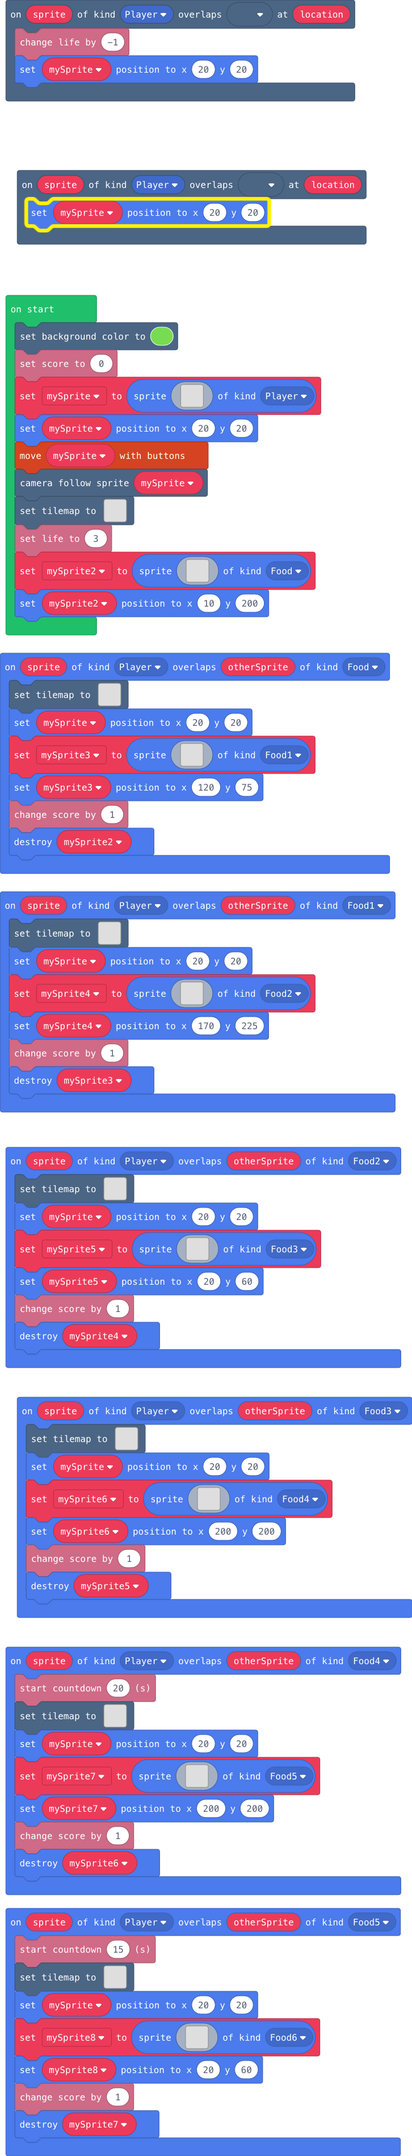
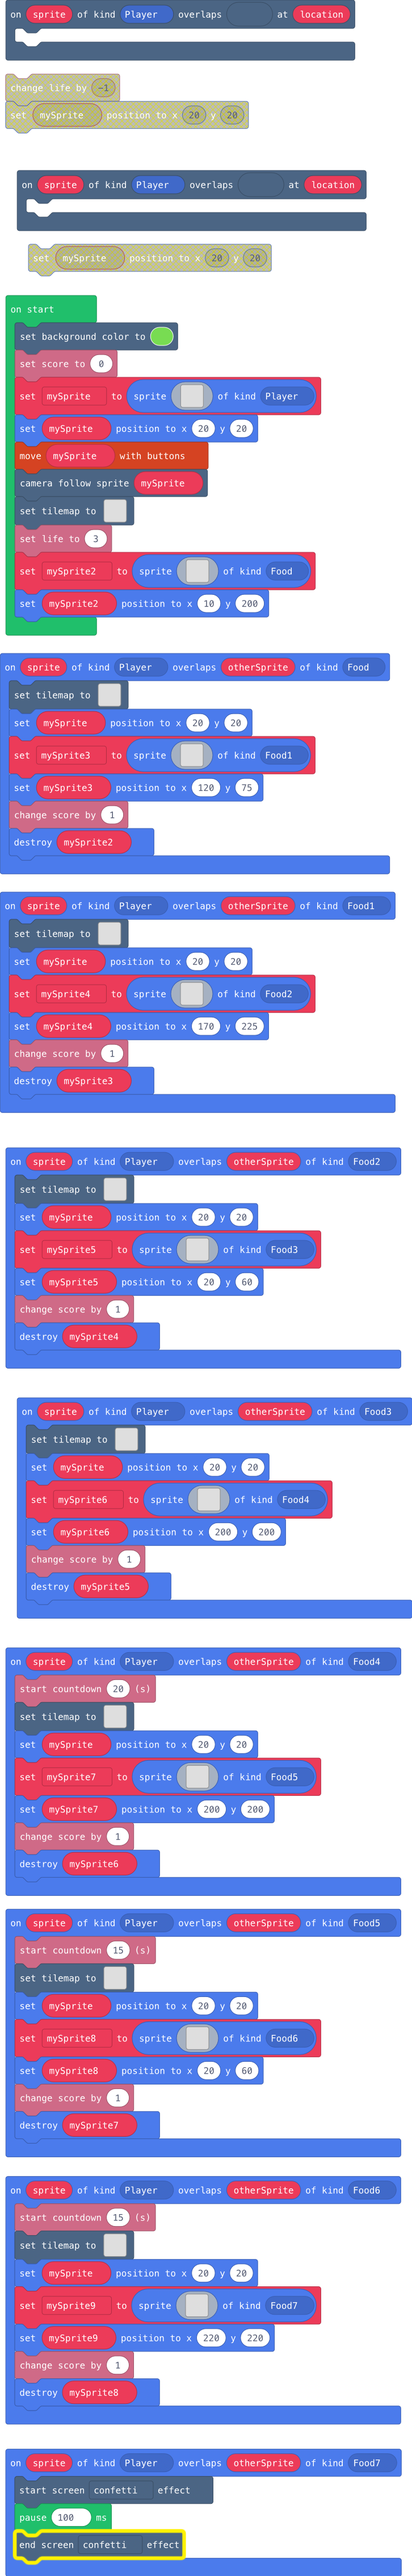
Added another level

diff --git a/main.ts b/main.ts
@@ -5,6 +5,7 @@ namespace SpriteKind {
     export const Food4 = SpriteKind.create()
     export const Food5 = SpriteKind.create()
     export const Food6 = SpriteKind.create()
+    export const Food7 = SpriteKind.create()
 }
 namespace myTiles {
     //% blockIdentity=images._tile
@@ -94,7 +95,7 @@ e e b e c c e e e e e c e b e e
     mySprite5.destroy()
 })
 scene.onOverlapTile(SpriteKind.Player, sprites.builtin.brick, function (sprite, location) {
-    mySprite.setPosition(20, 20)
+	
 })
 sprites.onOverlap(SpriteKind.Player, SpriteKind.Food, function (sprite, otherSprite) {
     tiles.setTilemap(tiles.createTilemap(
@@ -143,9 +144,56 @@ e e b e c c e e e e e c e b e e
     info.changeScoreBy(1)
     mySprite2.destroy()
 })
-scene.onOverlapTile(SpriteKind.Player, sprites.dungeon.hazardLava1, function (sprite, location) {
-    info.changeLifeBy(-1)
+sprites.onOverlap(SpriteKind.Player, SpriteKind.Food6, function (sprite, otherSprite) {
+    info.startCountdown(15)
+    tiles.setTilemap(tiles.createTilemap(
+            hex`1000100000000000000000000000000000000000000000000000000000000000000000000203000003020202030000030202020200000000000000000200000200000000000000000000000002000002000000000000030303030303030000030300000000000200000000000000000002000000000002000000000000000000020000000000020202020303030000000200000000000200000000000000000002000000000002000000000000000000020000000000030000030202030000000300000000000300000200000200000003000000000003020202000003030000030000000000000000000000000000000000000000000000000000000000000000000000`,
+            img`
+. . . . . . . . . . . . . . . . 
+. . . . . . . . . . . . . . . . 
+. . . . . . . . . . . . . . . . 
+. . . . . . . . . . . . . . . . 
+. . . . . . . . . . . . . . . . 
+. . . . . . . . . . . . . . . . 
+. . . . . . . . . . . . . . . . 
+. . . . . . . . . . . . . . . . 
+. . . . . . . . . . . . . . . . 
+. . . . . . . . . . . . . . . . 
+. . . . . . . . . . . . . . . . 
+. . . . . . . . . . . . . . . . 
+. . . . . . . . . . . . . . . . 
+. . . . . . . . . . . . . . . . 
+. . . . . . . . . . . . . . . . 
+. . . . . . . . . . . . . . . . 
+`,
+            [myTiles.tile0,myTiles.tile1,sprites.builtin.brick,sprites.dungeon.hazardLava1],
+            TileScale.Sixteen
+        ))
     mySprite.setPosition(20, 20)
+    mySprite9 = sprites.create(img`
+. . . . c c c b b b b b . . . . 
+. . c c b 4 4 4 4 4 4 b b b . . 
+. c c 4 4 4 4 4 5 4 4 4 4 b c . 
+. e 4 4 4 4 4 4 4 4 4 5 4 4 e . 
+e b 4 5 4 4 5 4 4 4 4 4 4 4 b c 
+e b 4 4 4 4 4 4 4 4 4 4 5 4 4 e 
+e b b 4 4 4 4 4 4 4 4 4 4 4 b e 
+. e b 4 4 4 4 4 5 4 4 4 4 b e . 
+8 7 e e b 4 4 4 4 4 4 b e e 6 8 
+8 7 2 e e e e e e e e e e 2 7 8 
+e 6 6 2 2 2 2 2 2 2 2 2 2 6 c e 
+e c 6 7 6 6 7 7 7 6 6 7 6 c c e 
+e b e 8 8 c c 8 8 c c c 8 e b e 
+e e b e c c e e e e e c e b e e 
+. e e b b 4 4 4 4 4 4 4 4 e e . 
+. . . c c c c c e e e e e . . . 
+`, SpriteKind.Food7)
+    mySprite9.setPosition(220, 220)
+    info.changeScoreBy(1)
+    mySprite8.destroy()
+})
+scene.onOverlapTile(SpriteKind.Player, sprites.dungeon.hazardLava1, function (sprite, location) {
+	
 })
 sprites.onOverlap(SpriteKind.Player, SpriteKind.Food1, function (sprite, otherSprite) {
     tiles.setTilemap(tiles.createTilemap(
@@ -241,6 +289,11 @@ e e b e c c e e e e e c e b e e
     mySprite8.setPosition(20, 60)
     info.changeScoreBy(1)
     mySprite7.destroy()
+})
+sprites.onOverlap(SpriteKind.Player, SpriteKind.Food7, function (sprite, otherSprite) {
+    effects.confetti.startScreenEffect()
+    pause(100)
+    effects.confetti.endScreenEffect()
 })
 sprites.onOverlap(SpriteKind.Player, SpriteKind.Food2, function (sprite, otherSprite) {
     tiles.setTilemap(tiles.createTilemap(
@@ -338,8 +391,9 @@ e e b e c c e e e e e c e b e e
     mySprite6.destroy()
 })
 let mySprite7: Sprite = null
-let mySprite8: Sprite = null
 let mySprite4: Sprite = null
+let mySprite8: Sprite = null
+let mySprite9: Sprite = null
 let mySprite3: Sprite = null
 let mySprite5: Sprite = null
 let mySprite6: Sprite = null
